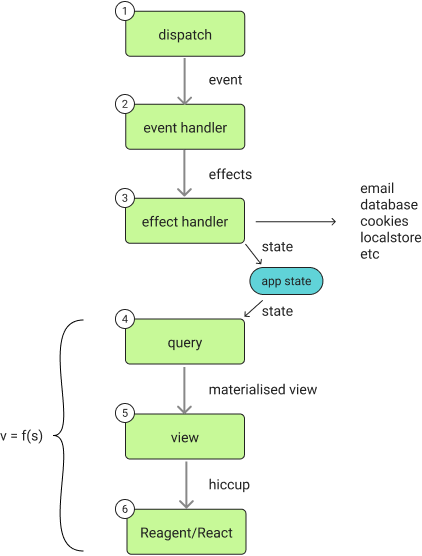
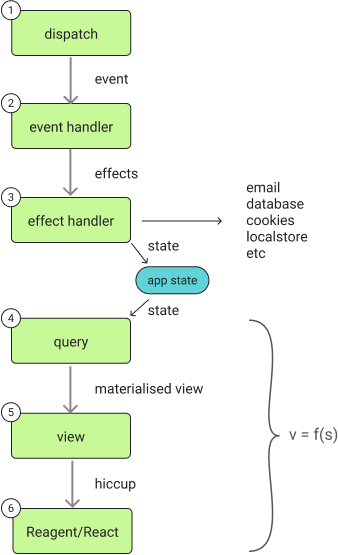
Docs WIP

diff --git a/README.md b/README.md
@@ -163,6 +163,8 @@ and only part of `s` may change at any one time, so only part of the
 `v` (DOM) need be re-computed and updated. And some parts of `v` might not 
 be showing right now.
 
+<img align="right" src="/images/Readme/6dominoes.png?raw=true">
+
 ### Domino 4 - Query
 
 Domino 4 is about extracting data from "app state", and providing it 
@@ -193,11 +195,6 @@ for completeness and to fully close the loop.
 This is the step in which the hiccup-formatted 
 "descriptions of required DOM", returned by the view functions of Domino 5, are made real.
 The browser DOM nodes are mutated. 
-
-## As A Picture
-
-<img src="/images/Readme/6dominoes.png?raw=true">
-
 
 
 ## A Cascade Of Simple Functions

diff --git a/docs/EventHandlingInfographic.md b/docs/EventHandlingInfographic.md
@@ -1,11 +1,11 @@
 ## Event Handling Infographics
 
 Three diagrams are provided:
-  - a beginners romp
-  - a useful, intermediate schematic depiction
-  - an advanced, accurate and detailed view
+  - a beginner's romp
+  - an intermediate schematic depiction
+  - an advanced, full detail rendering
 
-They should be reviewed in conjunction with a reading of the written tutorials. 
+They should be reviewed in conjunction with the written tutorials. 
 
 <img src="/images/event-handlers.png?raw=true">
 

diff --git a/CHANGES.md b/CHANGES.md
@@ -1,6 +1,6 @@
 ## 0.9.0 (2016.12.15)
 
-Welcome Guests. Dr Ford has created a new [6-part narrative](README.md), 
+Welcome, Guests. Dr Ford has created a new [6-part narrative](README.md), 
 and Bernard [some infographics](/docs/EventHandlingInfographic.md). Anyone seen Dolores?
 
 #### Headline
